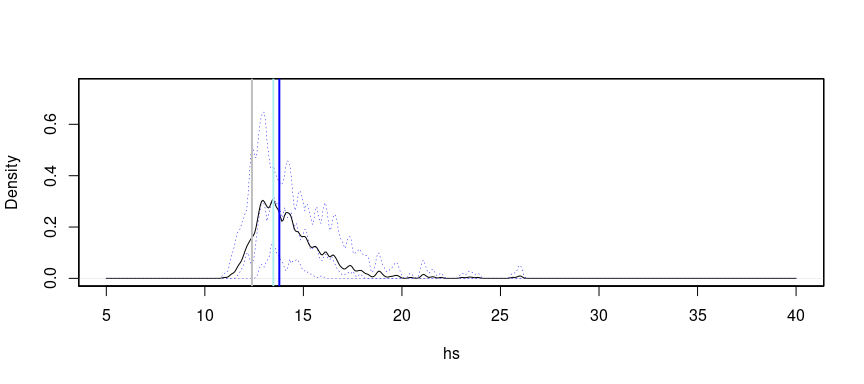
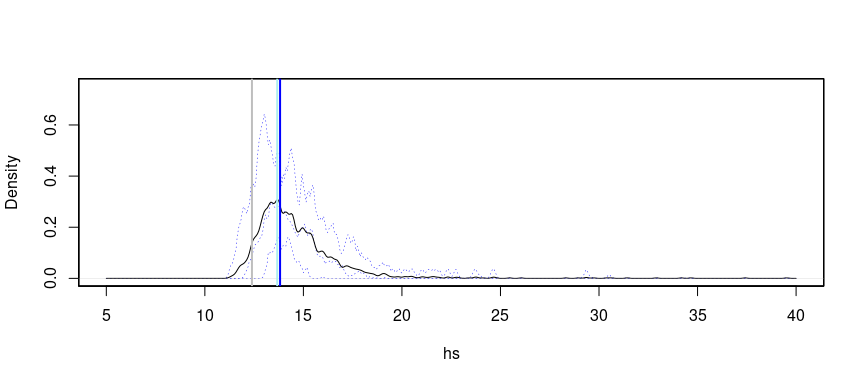
updated README

diff --git a/README.md b/README.md
@@ -77,7 +77,7 @@ plot(density(ds$hs, bw=.1))
 
 ``` r
 # number of bootstrap/resampling steps
-nbstrp <- 10  # e.g. nbstrp = 10 for testing
+nbstrp <- 20  # e.g. nbstrp = 20 for testing
 
 system.time(res_bstrp <- run_bootstrap_storms_pots(df = df_pick$storms,
                                                    group_col = "storm_idx",
@@ -86,7 +86,7 @@ system.time(res_bstrp <- run_bootstrap_storms_pots(df = df_pick$storms,
 ```
 
     ##    user  system elapsed 
-    ##   3.304   0.000   3.304
+    ##   6.903   0.012   6.921
 
 ``` r
 bstrp_storms_lst <- res_bstrp$boot_samples
@@ -160,7 +160,7 @@ models_margs <- fit_margs_bstrp(bstrp_pots_lst,
 ```
 
     ## [1] "Considered variables:" "hs"                   
-    ## [1] "number of bootstraps is:" "10"                      
+    ## [1] "number of bootstraps is:" "20"                      
     ## [1] "bootstrap nr:" "1"            
     ## [1] "fit threshold model"
     ## [1] "fit threshold model for" "hs"                     
@@ -251,6 +251,96 @@ models_margs <- fit_margs_bstrp(bstrp_pots_lst,
     ## [1] "fit GPD model"
     ## [1] "fit gpd model for" "hs"               
     ## [1] "fit occ model"
+    ## [1] "fit occurrence model for" "hs"                      
+    ## [1] "bootstrap nr:" "11"           
+    ## [1] "fit threshold model"
+    ## [1] "fit threshold model for" "hs"                     
+    ## [1] "subset to pots above threshold"
+    ## [1] "subset dataset for" "hs"                
+    ## [1] "fit GPD model"
+    ## [1] "fit gpd model for" "hs"               
+    ## [1] "fit occ model"
+    ## [1] "fit occurrence model for" "hs"                      
+    ## [1] "bootstrap nr:" "12"           
+    ## [1] "fit threshold model"
+    ## [1] "fit threshold model for" "hs"                     
+    ## [1] "subset to pots above threshold"
+    ## [1] "subset dataset for" "hs"                
+    ## [1] "fit GPD model"
+    ## [1] "fit gpd model for" "hs"               
+    ## [1] "fit occ model"
+    ## [1] "fit occurrence model for" "hs"                      
+    ## [1] "bootstrap nr:" "13"           
+    ## [1] "fit threshold model"
+    ## [1] "fit threshold model for" "hs"                     
+    ## [1] "subset to pots above threshold"
+    ## [1] "subset dataset for" "hs"                
+    ## [1] "fit GPD model"
+    ## [1] "fit gpd model for" "hs"               
+    ## [1] "fit occ model"
+    ## [1] "fit occurrence model for" "hs"                      
+    ## [1] "bootstrap nr:" "14"           
+    ## [1] "fit threshold model"
+    ## [1] "fit threshold model for" "hs"                     
+    ## [1] "subset to pots above threshold"
+    ## [1] "subset dataset for" "hs"                
+    ## [1] "fit GPD model"
+    ## [1] "fit gpd model for" "hs"               
+    ## [1] "fit occ model"
+    ## [1] "fit occurrence model for" "hs"                      
+    ## [1] "bootstrap nr:" "15"           
+    ## [1] "fit threshold model"
+    ## [1] "fit threshold model for" "hs"                     
+    ## [1] "subset to pots above threshold"
+    ## [1] "subset dataset for" "hs"                
+    ## [1] "fit GPD model"
+    ## [1] "fit gpd model for" "hs"               
+    ## [1] "fit occ model"
+    ## [1] "fit occurrence model for" "hs"                      
+    ## [1] "bootstrap nr:" "16"           
+    ## [1] "fit threshold model"
+    ## [1] "fit threshold model for" "hs"                     
+    ## [1] "subset to pots above threshold"
+    ## [1] "subset dataset for" "hs"                
+    ## [1] "fit GPD model"
+    ## [1] "fit gpd model for" "hs"               
+    ## [1] "fit occ model"
+    ## [1] "fit occurrence model for" "hs"                      
+    ## [1] "bootstrap nr:" "17"           
+    ## [1] "fit threshold model"
+    ## [1] "fit threshold model for" "hs"                     
+    ## [1] "subset to pots above threshold"
+    ## [1] "subset dataset for" "hs"                
+    ## [1] "fit GPD model"
+    ## [1] "fit gpd model for" "hs"               
+    ## [1] "fit occ model"
+    ## [1] "fit occurrence model for" "hs"                      
+    ## [1] "bootstrap nr:" "18"           
+    ## [1] "fit threshold model"
+    ## [1] "fit threshold model for" "hs"                     
+    ## [1] "subset to pots above threshold"
+    ## [1] "subset dataset for" "hs"                
+    ## [1] "fit GPD model"
+    ## [1] "fit gpd model for" "hs"               
+    ## [1] "fit occ model"
+    ## [1] "fit occurrence model for" "hs"                      
+    ## [1] "bootstrap nr:" "19"           
+    ## [1] "fit threshold model"
+    ## [1] "fit threshold model for" "hs"                     
+    ## [1] "subset to pots above threshold"
+    ## [1] "subset dataset for" "hs"                
+    ## [1] "fit GPD model"
+    ## [1] "fit gpd model for" "hs"               
+    ## [1] "fit occ model"
+    ## [1] "fit occurrence model for" "hs"                      
+    ## [1] "bootstrap nr:" "20"           
+    ## [1] "fit threshold model"
+    ## [1] "fit threshold model for" "hs"                     
+    ## [1] "subset to pots above threshold"
+    ## [1] "subset dataset for" "hs"                
+    ## [1] "fit GPD model"
+    ## [1] "fit gpd model for" "hs"               
+    ## [1] "fit occ model"
     ## [1] "fit occurrence model for" "hs"
 
 ## Simulate 100yr maxima
@@ -264,107 +354,6 @@ preds_margs_lst <- predict_margs(models_margs, nr_yrs_subdata, RP=RP,
                                  grid_interval = list('Pdir'=1, 'doy'=1))
 ```
 
-    ## [1] "number of boostraps (predict_margs):"
-    ## [2] "1"                                   
-    ## [1] "produce storms"
-    ## [1] "nr_of_events:" "829"          
-    ## [1] "sum(predcounts)"  "2760.09444619841"
-    ## [1] "lambda_max"         "0.0210365309700515"
-    ## [1] "proposal_N:" "1727"       
-    ## [1] "nr_of_sims:" "1711"       
-    ## [1] "predict threshold"
-    ## [1] "predict exceedences"
-    ## [1] "number of boostraps (predict_margs):"
-    ## [2] "2"                                   
-    ## [1] "produce storms"
-    ## [1] "nr_of_events:" "779"          
-    ## [1] "sum(predcounts)" "2761.7314134749"
-    ## [1] "lambda_max"         "0.0239521202481212"
-    ## [1] "proposal_N:" "1966"       
-    ## [1] "nr_of_sims:" "1733"       
-    ## [1] "predict threshold"
-    ## [1] "predict exceedences"
-    ## [1] "number of boostraps (predict_margs):"
-    ## [2] "3"                                   
-    ## [1] "produce storms"
-    ## [1] "nr_of_events:" "802"          
-    ## [1] "sum(predcounts)"  "2754.93637514832"
-    ## [1] "lambda_max"         "0.0267521379550961"
-    ## [1] "proposal_N:" "2134"       
-    ## [1] "nr_of_sims:" "1671"       
-    ## [1] "predict threshold"
-    ## [1] "predict exceedences"
-    ## [1] "number of boostraps (predict_margs):"
-    ## [2] "4"                                   
-    ## [1] "produce storms"
-    ## [1] "nr_of_events:" "1296"         
-    ## [1] "sum(predcounts)"  "2749.90968628454"
-    ## [1] "lambda_max"         "0.0270506298643237"
-    ## [1] "proposal_N:" "3496"       
-    ## [1] "nr_of_sims:" "2729"       
-    ## [1] "predict threshold"
-    ## [1] "predict exceedences"
-    ## [1] "number of boostraps (predict_margs):"
-    ## [2] "5"                                   
-    ## [1] "produce storms"
-    ## [1] "nr_of_events:" "938"          
-    ## [1] "sum(predcounts)" "2781.0505928622"
-    ## [1] "lambda_max"         "0.0275650027380769"
-    ## [1] "proposal_N:" "2580"       
-    ## [1] "nr_of_sims:" "1946"       
-    ## [1] "predict threshold"
-    ## [1] "predict exceedences"
-    ## [1] "number of boostraps (predict_margs):"
-    ## [2] "6"                                   
-    ## [1] "produce storms"
-    ## [1] "nr_of_events:" "1218"         
-    ## [1] "sum(predcounts)"  "2772.16919437751"
-    ## [1] "lambda_max"         "0.0284180691189385"
-    ## [1] "proposal_N:" "3516"       
-    ## [1] "nr_of_sims:" "2581"       
-    ## [1] "predict threshold"
-    ## [1] "predict exceedences"
-    ## [1] "number of boostraps (predict_margs):"
-    ## [2] "7"                                   
-    ## [1] "produce storms"
-    ## [1] "nr_of_events:" "928"          
-    ## [1] "sum(predcounts)"  "2780.36317918889"
-    ## [1] "lambda_max"         "0.0269156280589783"
-    ## [1] "proposal_N:" "2527"       
-    ## [1] "nr_of_sims:" "1976"       
-    ## [1] "predict threshold"
-    ## [1] "predict exceedences"
-    ## [1] "number of boostraps (predict_margs):"
-    ## [2] "8"                                   
-    ## [1] "produce storms"
-    ## [1] "nr_of_events:" "1182"         
-    ## [1] "sum(predcounts)"  "2752.49811333104"
-    ## [1] "lambda_max"         "0.0273339849162576"
-    ## [1] "proposal_N:" "3211"       
-    ## [1] "nr_of_sims:" "2436"       
-    ## [1] "predict threshold"
-    ## [1] "predict exceedences"
-    ## [1] "number of boostraps (predict_margs):"
-    ## [2] "9"                                   
-    ## [1] "produce storms"
-    ## [1] "nr_of_events:" "1222"         
-    ## [1] "sum(predcounts)"  "2765.97537241364"
-    ## [1] "lambda_max"         "0.0301060442172565"
-    ## [1] "proposal_N:" "3681"       
-    ## [1] "nr_of_sims:" "2602"       
-    ## [1] "predict threshold"
-    ## [1] "predict exceedences"
-    ## [1] "number of boostraps (predict_margs):"
-    ## [2] "10"                                  
-    ## [1] "produce storms"
-    ## [1] "nr_of_events:" "1227"         
-    ## [1] "sum(predcounts)"  "2737.80272953685"
-    ## [1] "lambda_max"         "0.0409938007890254"
-    ## [1] "proposal_N:" "5108"       
-    ## [1] "nr_of_sims:" "2566"       
-    ## [1] "predict threshold"
-    ## [1] "predict exceedences"
-
 ## Plot resulting simulated peaks
 
 ``` r
@@ -375,11 +364,10 @@ dhs <- diagnose_margs_preds_density(preds_margs_lst, 'hs', bw=.1, xlim=c(5,40))
 
     ## [1] "summary maxes:"
     ##    Min. 1st Qu.  Median    Mean 3rd Qu.    Max. 
-    ##   11.01   13.06   14.00   14.42   15.22   54.53
+    ##   11.24   13.28   14.15   14.68   15.38   71.42
 
 ``` r
-df_ekofisk <- readRDS(file = "/home/patrikb/R-projects/envex/data/df_ekofisk.rds")
-abline(v = max(df_ekofisk$hs), col = "gray", lwd = 2)
+abline(v = max(df_pick$pots$hs), col = "gray", lwd = 2)
 rvs <- NULL
 for (i in 1:length(dhs$maxvals)){
   rvs[[i]] <- quantile(unlist(dhs$maxvals[[i]]), exp(-1))
